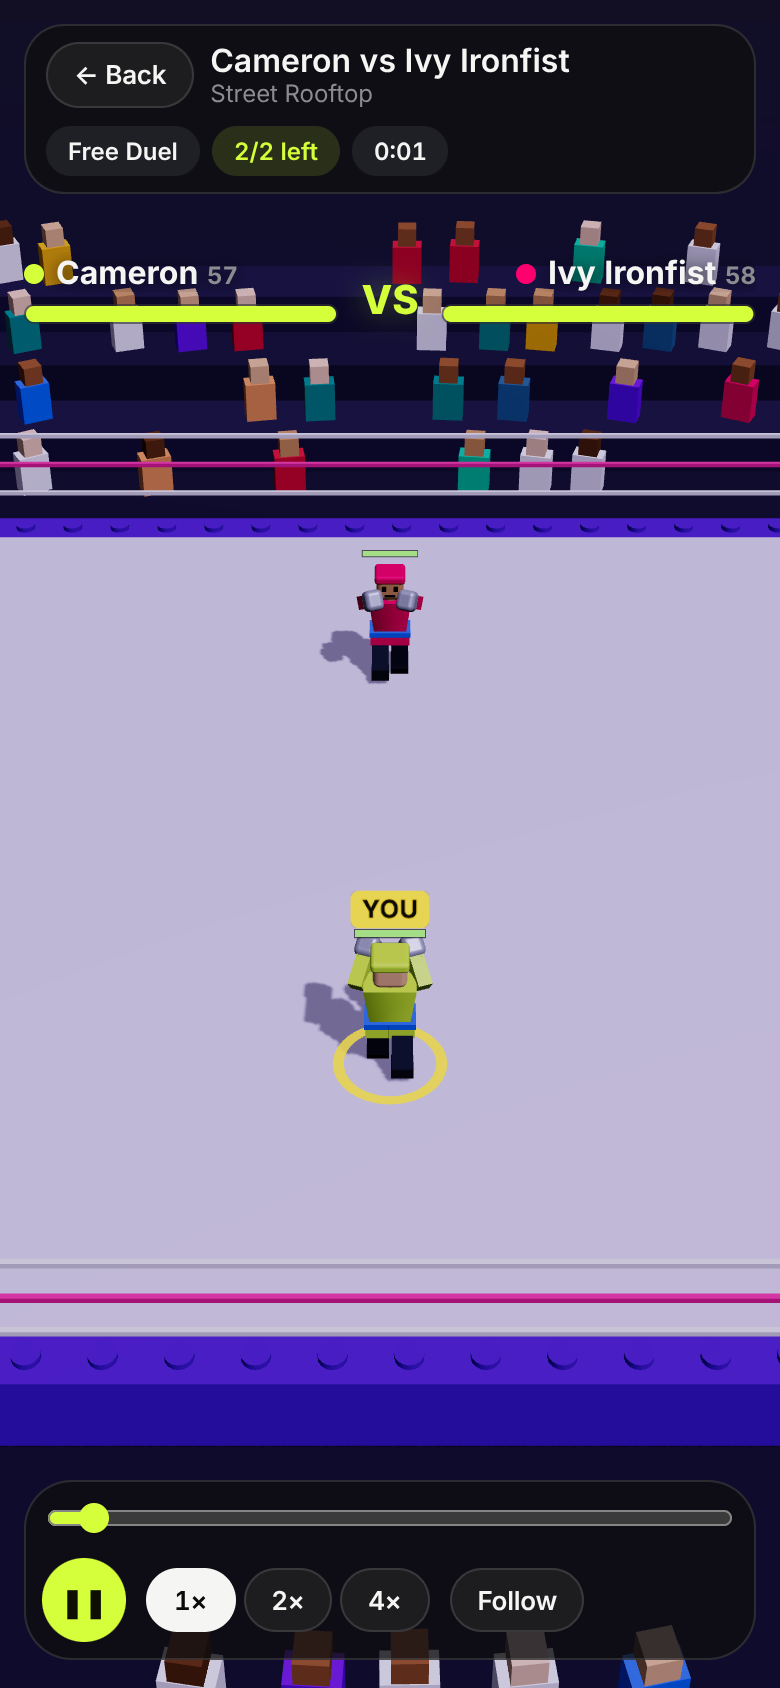
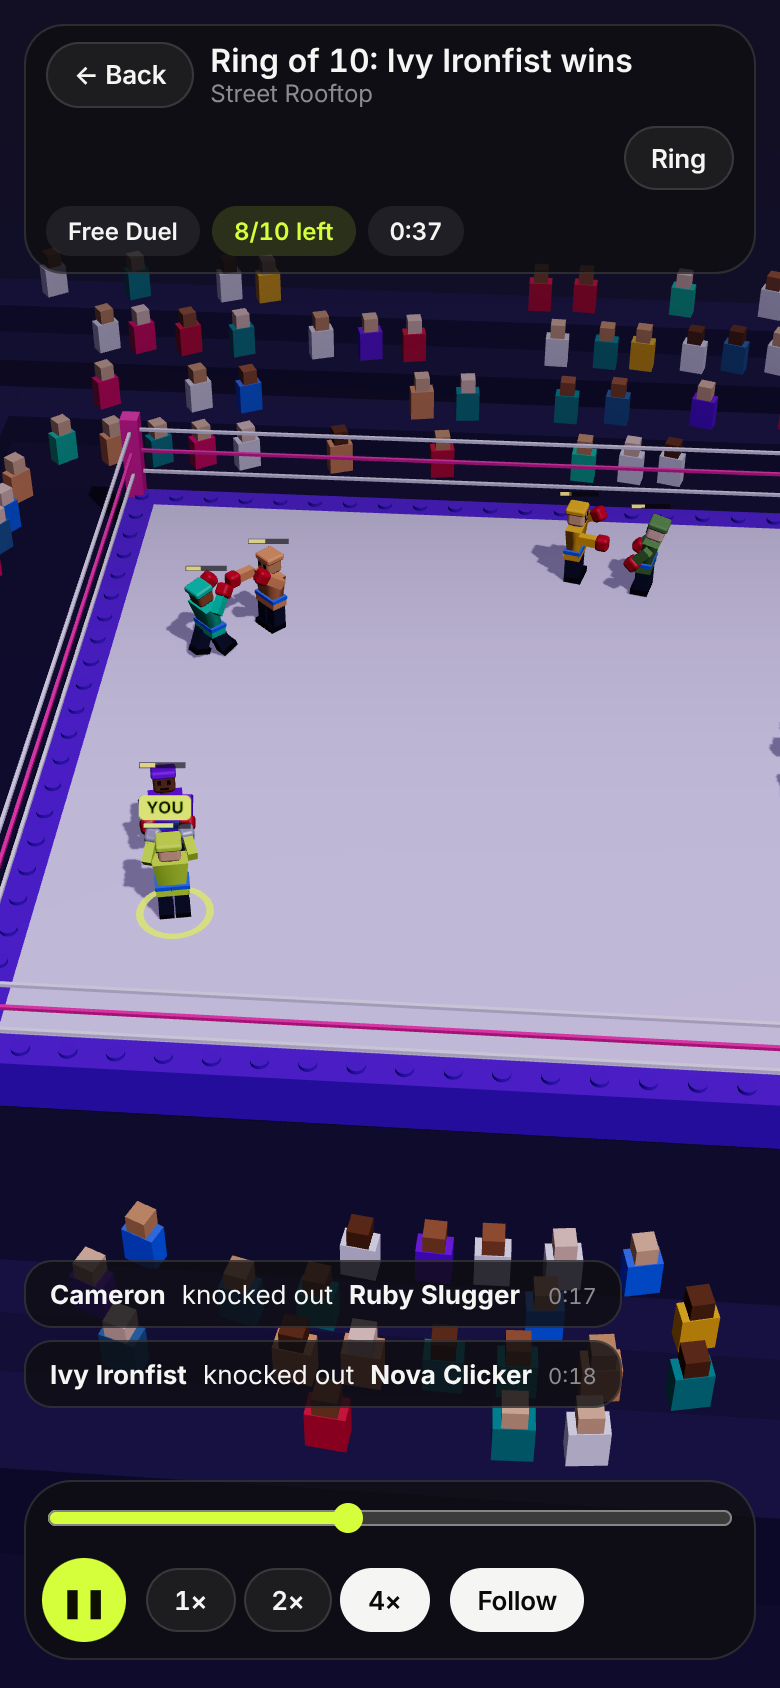
Duels are now 10-champion ring fights
- Matchmaking fills a ring of 10: your champ plus up to nine other players'
  champions within 8 rating points, house champions fill empty places
- Every matched player is notified with their champ's finishing place
- Results show your place out of 10; fight lists show WIN or #place/10
- Latest fights shows each ring's winner; neutral fight titles (no spoilers)
- Chrome torso unlock lowered to 3 Duel wins (winning a ring of 10 is harder)
- Spec, README, screenshots and API test updated

Claude-Session: https://claude.ai/code/session_018Zoxd9uaRvS8z3N3r2uQXy

diff --git a/server/game.ts b/server/game.ts
@@ -223,12 +223,13 @@ function houseChamp(p: FakePlayer): ChampSnapshot {
   return { ...p, id: `h-${p.id}-${p.name.replace(/\s/g, "")}`, userId: null, equipped: {} };
 }
 
+export const DUEL_RING_SIZE = 10;
 const DUEL_RATING_WINDOW = 8;
 const DUELS_PER_HOUR = 40;
 
-// Match against another player's champion at a similar level. Their champ fights on
-// its own (that is the point of an AI champion) and they get a notification.
-// House champions fill in when no player is close enough.
+// A Duel is a ring of 10 champions at a similar level: yours plus up to nine other
+// players' champions (they fight on their own, that is the point of an AI champion,
+// and their owners are notified). House champions fill any empty places.
 export function startDuel(db: DB, userId: number, today: string): { fightId: number } {
   const recent = db
     .prepare("SELECT COUNT(*) AS n FROM fight_entries e JOIN fights f ON f.id = e.fight_id WHERE e.user_id = ? AND f.mode = 'duel' AND f.created_at > ?")
@@ -238,30 +239,35 @@ export function startDuel(db: DB, userId: number, today: string): { fightId: num
   const me = champSnapshot(db, userId, today);
   const since = addDays(today, -14);
   const candidates = db
-    .prepare("SELECT DISTINCT user_id FROM activity WHERE date >= ? AND user_id != ? AND user_id IN (SELECT user_id FROM champs) ORDER BY RANDOM() LIMIT 60")
+    .prepare("SELECT DISTINCT user_id FROM activity WHERE date >= ? AND user_id != ? AND user_id IN (SELECT user_id FROM champs) ORDER BY RANDOM() LIMIT 120")
     .all(since, userId) as { user_id: number }[];
-  const close = candidates
+  const players = candidates
     .map((c) => champSnapshot(db, c.user_id, today))
     .filter((c) => Math.abs(c.rating - me.rating) <= DUEL_RATING_WINDOW)
-    .sort((a, b) => Math.abs(a.rating - me.rating) - Math.abs(b.rating - me.rating));
+    .sort((a, b) => Math.abs(a.rating - me.rating) - Math.abs(b.rating - me.rating))
+    .slice(0, DUEL_RING_SIZE - 1);
 
   const seed = randomInt(1, 2 ** 31 - 1);
-  let opponent: ChampSnapshot;
-  if (close.length > 0) {
-    opponent = close[randomInt(0, Math.min(3, close.length))];
-  } else {
-    const pool = makeFakeField(seed, 40, today).sort((a, b) => Math.abs(a.rating - me.rating) - Math.abs(b.rating - me.rating));
-    opponent = houseChamp(pool[randomInt(0, 4)]);
-  }
+  const house = makeFakeField(seed, DUEL_RING_SIZE * 6, today)
+    .sort((a, b) => Math.abs(a.rating - me.rating) - Math.abs(b.rating - me.rating))
+    .slice(0, DUEL_RING_SIZE - 1 - players.length)
+    .map(houseChamp);
 
-  const fighters = [me, opponent];
+  const fighters = [me, ...players, ...house];
   const result = simulateRumble(fighters, seed);
-  const venue = divisionFor(Math.round((me.rating + opponent.rating) / 2)).venue;
+  const avg = fighters.reduce((s, f) => s + f.rating, 0) / fighters.length;
+  const venue = divisionFor(Math.round(avg)).venue;
   return tx(db, () => {
-    const fightId = saveFight(db, { mode: "duel", seed, venue, title: `${me.name} vs ${opponent.name}`, fighters, standings: result.standings });
-    if (opponent.userId !== null) {
-      const won = result.standings[0].fighterId === opponent.id;
-      notify(db, opponent.userId, "duel", `${me.name} challenged your champ ${opponent.name}. ${won ? "Your champ won!" : "Your champ lost. Time to train."}`, fightId);
+    const fightId = saveFight(db, { mode: "duel", seed, venue, title: `Duel · ring of ${fighters.length}`, fighters, standings: result.standings });
+    for (const p of players) {
+      const place = result.standings.find((s) => s.fighterId === p.id)!.place;
+      notify(
+        db,
+        p.userId!,
+        "duel",
+        `${me.name} started a ring fight with your champ ${p.name}. ${place === 1 ? "Your champ won!" : `Your champ finished #${place} of ${fighters.length}.`}`,
+        fightId,
+      );
     }
     return { fightId };
   });
@@ -288,17 +294,20 @@ export function myFights(db: DB, userId: number, limit = 30) {
 }
 
 export function liveFeed(db: DB, limit = 12) {
-  const rows = db.prepare("SELECT id, mode, title, created_at AS createdAt, venue, fighters FROM fights ORDER BY id DESC LIMIT ?").all(limit) as {
+  const rows = db.prepare("SELECT id, mode, title, created_at AS createdAt, venue, fighters, standings FROM fights ORDER BY id DESC LIMIT ?").all(limit) as {
     id: number;
     mode: string;
     title: string;
     createdAt: string;
     venue: string;
     fighters: string;
+    standings: string;
   }[];
-  return rows.map(({ fighters, ...r }) => {
+  return rows.map(({ fighters, standings, ...r }) => {
     const list = JSON.parse(fighters) as ChampSnapshot[];
-    return { ...r, fighters: list.length, top: list.slice(0, 2).map((f) => ({ name: f.name, color: f.color, rating: f.rating })) };
+    const winnerId = (JSON.parse(standings) as Standing[])[0].fighterId;
+    const w = list.find((f) => f.id === winnerId)!;
+    return { ...r, fighters: list.length, winner: { name: w.name, color: w.color, rating: w.rating } };
   });
 }
 

diff --git a/web/src/pages/Battleground.tsx b/web/src/pages/Battleground.tsx
@@ -93,7 +93,7 @@ export function Battleground({ opts }: { opts: GoOptions }) {
           <b>{champ.rating}</b>
           <span className="muted">{division.name}</span>
           <span className="wl">
-            {profile.record.duelWins}W {profile.record.duels - profile.record.duelWins}L
+            {profile.record.duelWins} {profile.record.duelWins === 1 ? "win" : "wins"}
           </span>
         </div>
       </header>
@@ -107,10 +107,11 @@ export function Battleground({ opts }: { opts: GoOptions }) {
       <section className="card duel-cta">
         <div className="cta-glow" aria-hidden />
         <div>
-          <div className="label">1 vs 1 · Free</div>
+          <div className="label">Ring of 10 · Free</div>
           <h2>Join a Duel</h2>
           <p className="note">
-            Your champ is matched with another player's champion at a similar level ({division.name} division). Fights last about a minute.
+            Your champ enters a ring with nine other players' champions at a similar level ({division.name} division). Last one standing wins. Fights last about a
+            minute.
           </p>
         </div>
         <button className="btn btn-primary big-btn" onClick={duel} disabled={busy}>
@@ -132,23 +133,11 @@ export function Battleground({ opts }: { opts: GoOptions }) {
             <li key={f.id}>
               <button className="live-item" onClick={() => watch(f.id)}>
                 <span className="vs-names">
-                  {f.mode === "duel" ? (
-                    <>
-                      <span>
-                        <span className="swatch" style={{ background: f.top[0].color }} />
-                        {f.top[0].name} <span className="mono muted">{f.top[0].rating}</span>
-                      </span>
-                      <span className="muted">vs</span>
-                      <span>
-                        <span className="swatch" style={{ background: f.top[1].color }} />
-                        {f.top[1].name} <span className="mono muted">{f.top[1].rating}</span>
-                      </span>
-                    </>
-                  ) : (
-                    <span>
-                      {f.title} · {f.fighters} champions
-                    </span>
-                  )}
+                  <span>
+                    <span className="swatch" style={{ background: f.winner.color }} />
+                    {f.winner.name} <span className="mono muted">{f.winner.rating}</span>
+                  </span>
+                  <span className="muted">won a {f.mode === "duel" ? "Duel" : f.title} · {f.fighters} champions</span>
                 </span>
                 <span className="live-meta">
                   <span className="muted">{VENUES[f.venue].name}</span>
@@ -250,7 +239,7 @@ export function Battleground({ opts }: { opts: GoOptions }) {
             <ul className="fight-list">
               {profile.fights.slice(0, 10).map((f) => (
                 <li key={f.id}>
-                  <span className={`badge ${f.won ? "win" : f.payoutCents > 0 ? "paid" : "loss"}`}>{f.mode === "duel" ? (f.won ? "WIN" : "LOSS") : `#${f.place}`}</span>
+                  <span className={`badge ${f.won ? "win" : f.place <= 3 ? "paid" : "loss"}`}>{f.won ? "WIN" : `#${f.place}/${f.fieldSize}`}</span>
                   <button className="link-row" onClick={() => watch(f.id)}>
                     {f.title}
                   </button>

diff --git a/server/test/api.test.ts b/server/test/api.test.ts
@@ -90,25 +90,26 @@ test("anti-cheat: implausible amounts are rejected, suspicious ones flagged", as
   assert.equal((await api("/api/workouts", { token, body: { kind: "pushups", amount: 100, source: "manual" } })).status, 422, "daily limit");
 });
 
-test("duels: players are matched with each other's champions and both see the result", async () => {
+test("duels: a ring of 10 with real players' champions, everyone sees the result", async () => {
   const day = { steps: 9000, pushups: 40, squats: 50, active_minutes: 35, run_km: 2 };
   const a = train(await signup("Alpha"), day);
   const b = train(await signup("Bravo"), day);
   const duel = await api("/api/duels", { token: a, body: {} });
   assert.equal(duel.status, 200, JSON.stringify(duel.data));
   const fight = (await api(`/api/fights/${duel.data.fightId}`, { token: a })).data;
-  assert.deepEqual(
-    fight.fighters.map((f: { name: string }) => f.name),
-    ["Alpha", "Bravo"],
-  );
+  assert.equal(fight.fighters.length, 10, "ring of 10");
+  assert.equal(fight.fighters[0].name, "Alpha", "your champ is in the ring");
+  assert.ok(fight.fighters.some((f: { name: string }) => f.name === "Bravo"), "a real player at the same level is matched");
+  assert.equal(new Set(fight.fighters.map((f: { id: string }) => f.id)).size, 10, "fighter ids are unique");
   assert.equal(fight.fighters[0].userId, undefined, "account ids are not exposed");
   // The replay is exact: re-running the stored fighters and seed gives the stored result.
   assert.deepEqual(simulateRumble(fight.fighters, fight.seed).standings, fight.standings);
 
   const notes = (await api("/api/notifications", { token: b })).data;
-  assert.match(notes[0].body, /Alpha challenged your champ Bravo/);
+  assert.match(notes[0].body, /Alpha started a ring fight with your champ Bravo/);
   const mine = (await api("/api/fights/mine", { token: b })).data;
   assert.equal(mine.length, 1);
+  assert.equal(mine[0].fieldSize, 10);
   assert.equal((await api("/api/me", { token: a })).data.record.duels, 1);
   assert.ok((await api("/api/me", { token: a })).data.unlocked.includes("sweatband"));
 });

diff --git a/engine/league.ts b/engine/league.ts
@@ -32,7 +32,7 @@ export interface GearItem {
 export const GEAR: GearItem[] = [
   { id: "sweatband", name: "Rookie sweatband", slot: "head", how: "Fight your first Duel" },
   { id: "flame-gloves", name: "Flame gloves", slot: "gloves", how: "Reach a 7-day streak" },
-  { id: "chrome-torso", name: "Chrome torso", slot: "torso", how: "Win 10 Duels" },
+  { id: "chrome-torso", name: "Chrome torso", slot: "torso", how: "Win 3 Duels" },
   { id: "gold-headgear", name: "Gold headgear", slot: "head", how: "Reach the Champion division" },
   { id: "crown", name: "Rumble crown", slot: "head", how: "Win a Rumble" },
 ];
@@ -51,7 +51,7 @@ export function unlockedGear(p: Progress): string[] {
   const out: string[] = [];
   if (p.duels >= 1) out.push("sweatband");
   if (p.bestStreak >= 7) out.push("flame-gloves");
-  if (p.duelWins >= 10) out.push("chrome-torso");
+  if (p.duelWins >= 3) out.push("chrome-torso");
   if (p.rating >= 75) out.push("gold-headgear");
   if (p.rumbleWins >= 1) out.push("crown");
   return out;

diff --git a/web/src/pages/Onboarding.tsx b/web/src/pages/Onboarding.tsx
@@ -12,7 +12,7 @@ const LEVELS = [
 const STEPS = [
   { title: "Train for real", body: "Count push-ups and squats with your camera, log walks and runs. Your activity is tracked every day." },
   { title: "Build your champion", body: "Push-ups give Power, squats Defense, steps Stamina, running Speed. Training often makes your champ smarter." },
-  { title: "Fight in the Battleground", body: "Your champ fights other players' champions in Duels and Rumbles, even while you sleep. Watch every fight in 3D." },
+  { title: "Fight in the Battleground", body: "Your champ fights other players' champions in 10-champion Duels and big Rumbles, even while you sleep. Watch every fight in 3D." },
 ];
 
 export function Onboarding({ profile }: { profile: Profile }) {

diff --git a/web/src/arena/ArenaHud.tsx b/web/src/arena/ArenaHud.tsx
@@ -242,8 +242,8 @@ export function Results(props: {
             <div>
               <div className="label">Your champ</div>
               <div className="big">
-                {mode === "duel" ? (youWon ? "WIN" : "LOSS") : mine.place}
-                {mode !== "duel" && <small>/{field.length}</small>}
+                {youWon ? "WIN" : `#${mine.place}`}
+                {!youWon && <small>/{field.length}</small>}
               </div>
             </div>
             <div className="mini-stats mono">

diff --git a/web/src/pages/Champ.tsx b/web/src/pages/Champ.tsx
@@ -139,9 +139,9 @@ export function ChampPage({ go }: { go: Go }) {
           <h2>Fight record</h2>
           <div className="bests">
             <div>
-              <span>Duels</span>
+              <span>Duels won</span>
               <b className="mono">
-                {rec.duelWins}W {rec.duels - rec.duelWins}L
+                {rec.duelWins} of {rec.duels}
               </b>
             </div>
             <div>

diff --git a/web/src/data/battle.ts b/web/src/data/battle.ts
@@ -91,7 +91,7 @@ export interface LiveFight {
   createdAt: string;
   venue: VenueId;
   fighters: number;
-  top: { name: string; color: string; rating: number }[];
+  winner: { name: string; color: string; rating: number };
 }
 
 export interface Rumble {

diff --git a/README.md b/README.md
@@ -19,7 +19,7 @@ See [`SPEC.md`](SPEC.md) for the full product spec.
 | **Today** | Activity rings for steps, reps and active minutes against your goals. Streak, quick-start buttons, your 3D champ and what today's training added. Notifications (🔔) when your champ fights |
 | **Train** | **Camera push-up and squat counter** (pose detection on the device; video never leaves the phone). Log steps, runs and active time. Workout history |
 | **Progress** | 7/14/28-day charts for steps and reps, your champ's rating over time, totals and personal bests |
-| **Battle** | **Duels** against other players' champions at your level. Latest fights to watch. **Daily and weekly Rumbles** you enter; they run automatically. Leaderboard, your fight history |
+| **Battle** | **Duels**: 10-champion ring fights against other players' champions at your level. Latest fights to watch. **Daily and weekly Rumbles** you enter; they run automatically. Leaderboard, your fight history |
 | **Champ** | 3D champion, stats and which exercise builds each, division progress, **Locker Room** gear you unlock, name and colour, goals, account |
 
 It installs as a phone app (PWA): add it to your home screen, and it opens full-screen with an offline shell.
@@ -36,7 +36,7 @@ It installs as a phone app (PWA): add it to your home screen, and it opens full-
 ```
 
 - **Every fight is simulated on the server** with the shared engine (`engine/rumble.ts`). The app gets the fighters and the seed, and replays the exact same fight in 3D. Clients can't fake results.
-- **Duels** match your champion with another player's champion within 8 rating points, with house champions as a fallback. The other player is notified ("X challenged your champ…").
+- **Duels** are rings of 10: your champion plus up to nine other players' champions within 8 rating points, with house champions filling empty places. The other players are notified with their champ's finishing place.
 - **Rumbles** are scheduled automatically: daily at 19:00 UTC and weekly on Sunday at 18:00 UTC.
   - The random seed is drawn when a Rumble is created, and only its SHA-256 fingerprint is shown.
   - After the fight the seed is revealed, so anyone can check that it matches and re-run the fight.

diff --git a/SPEC.md b/SPEC.md
@@ -16,7 +16,7 @@ Status: **draft for discussion**. Section 10 lists recommendations waiting for s
 | Push-up tracking | Counted by the **camera**, with pose detection running in the browser |
 | Fighter AI | Game AI that runs on our servers. Fights are deterministic and replayable from a seed (no language model controls moves) |
 | Duels | **Fully automatic and in the background.** Players get a result plus an automatic replay scene |
-| Format | **Duels** (1 vs 1) and **Rumbles** (many fighters in one ring, last one standing, like a WWE Royal Rumble) |
+| Format | **Duels** (a ring of 10 champions at a similar level, last one standing) and **Rumbles** (many fighters in one ring, last one standing, like a WWE Royal Rumble) |
 | Entry | Players choose which Rumble to enter and pay an entry stake into the pool |
 | Schedule | **Daily** and **weekly** Rumbles |
 | Payout | The top finishers share the pool by score |
@@ -47,7 +47,7 @@ Status: **draft for discussion**. Section 10 lists recommendations waiting for s
 
 ### 2.3 The Battleground
 - **Live now:** a feed of fights happening or just finished. Tap any fight to watch it in the 3D arena.
-- **Duels (1 vs 1):** quick fights between two champions.
+- **Duels (ring of 10):** quick fights between 10 champions at a similar level, last one standing wins. Your champ plus up to nine other players' champions; house champions fill empty places.
   - **Join:** put your champ in the Duel queue; you're matched with a champion of similar level in your division.
   - **Challenge a friend:** send a Duel link.
   - Duels run fast (about 30–60 seconds) and can be watched straight away.
